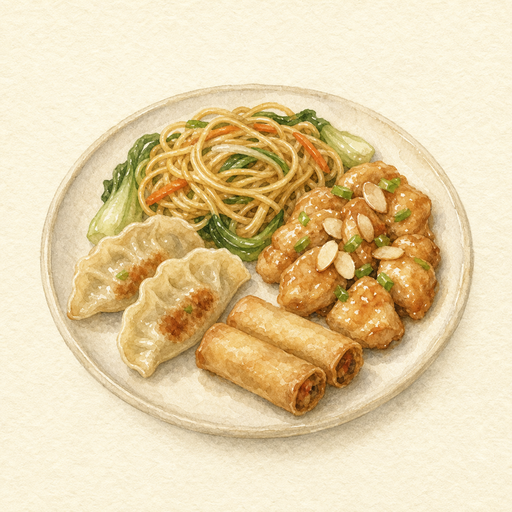
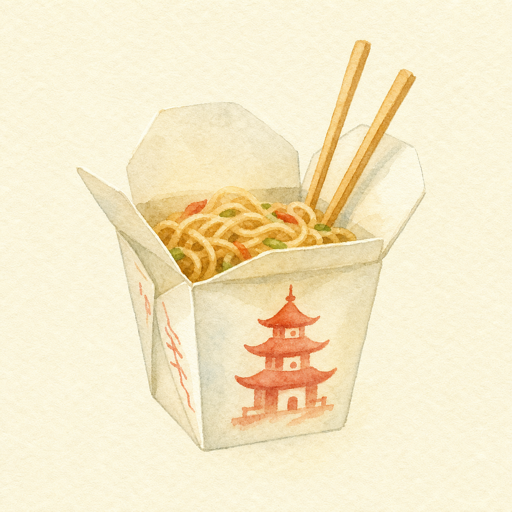
Expand recipe watercolor art

diff --git a/app/js/render.js b/app/js/render.js
@@ -135,21 +135,38 @@ function recipeDisplayTitle(id, opts){
 }
 
 const DEFAULT_RECIPE_IMAGE_ASSET = 'assets/recipes/default-recipe.png';
-const RECIPE_IMAGE_KEYS = ['default-recipe', 'salad', 'cooked-vegetables', 'meat-main', 'fish-main', 'breakfast-bowl', 'dessert-sweets', 'ramen', 'butter-chicken', 'chinese-dinner', 'fast-food-menu'];
+const RECIPE_IMAGE_KEYS = [
+  'default-recipe', 'breakfast-bowl', 'salad', 'soup', 'pasta',
+  'cooked-vegetables', 'meat-main', 'fish-main', 'dessert-sweets', 'ice-cream',
+  'ramen', 'butter-chicken', 'chinese-dinner', 'fast-food-menu', 'onigiri',
+  'french-toast', 'pancakes', 'boiled-chicken-broth', 'burrito',
+  'citrus-roast-turkey', 'club-sandwich', 'shakshuka'
+];
 
 function recipeImageLabel(key){
   const labels = {
     'default-recipe': 'Default',
+    'breakfast-bowl': 'Breakfast bowl',
     'salad': 'Salad',
+    'soup': 'Soup',
+    'pasta': 'Pasta',
     'cooked-vegetables': 'Cooked veg',
     'meat-main': 'Meat main',
     'fish-main': 'Fish main',
-    'breakfast-bowl': 'Breakfast bowl',
     'dessert-sweets': 'Dessert',
+    'ice-cream': 'Ice cream',
     'ramen': 'Ramen',
     'butter-chicken': 'Butter chicken',
     'chinese-dinner': 'Chinese dinner',
-    'fast-food-menu': 'Fast food'
+    'fast-food-menu': 'Fast food',
+    'onigiri': 'Onigiri',
+    'french-toast': 'French toast',
+    'pancakes': 'Pancakes',
+    'boiled-chicken-broth': 'Chicken broth',
+    'burrito': 'Burrito',
+    'citrus-roast-turkey': 'Citrus turkey',
+    'club-sandwich': 'Club sandwich',
+    'shakshuka': 'Shakshuka'
   };
   return labels[key] || String(key || '').replace(/-/g, ' ');
 }
@@ -183,7 +200,6 @@ function recipeHasFishIngredient(recipe){
 
 function inferredRecipeImageKey(recipe, recipeId){
   if(!recipe) return 'default-recipe';
-  if(recipeHasFishIngredient(recipe)) return 'fish-main';
   const title = String(recipe.title || '').toLowerCase();
   const emoji = String(recipe.emoji || '');
   const tags = Array.isArray(recipe.tags) ? recipe.tags : [];
@@ -198,13 +214,24 @@ function inferredRecipeImageKey(recipe, recipeId){
   if(/butter chicken|curry/.test(haystack)) return 'butter-chicken';
   if(/chinese|spring roll|dumpling|ravioli|almond chicken/.test(haystack)) return 'chinese-dinner';
   if(/mcdonald|burger king|fast food|burger|fries|cola/.test(haystack)) return 'fast-food-menu';
-  if(/brownie|dessert|sweet|sweets|gelato|ice cream|chocolate/.test(haystack)) return 'dessert-sweets';
+  if(/onigiri|rice ball/.test(haystack)) return 'onigiri';
+  if(/french toast/.test(haystack)) return 'french-toast';
+  if(/pancake/.test(haystack)) return 'pancakes';
+  if(/boiled chicken|chicken in broth|pollo bollito/.test(haystack)) return 'boiled-chicken-broth';
+  if(/burrito/.test(haystack)) return 'burrito';
+  if(/citrus roast turkey|orange.*turkey|turkey.*orange/.test(haystack)) return 'citrus-roast-turkey';
+  if(/club sandwich/.test(haystack)) return 'club-sandwich';
+  if(/shakshuka/.test(haystack)) return 'shakshuka';
+  if(/gelato|ice cream/.test(haystack)) return 'ice-cream';
+  if(/brownie|dessert|sweet|sweets|chocolate/.test(haystack)) return 'dessert-sweets';
+  if(/soup|zuppa|broth|minestrone|stew/.test(haystack)) return 'soup';
+  if(/pasta|spaghetti|lasagna|tagliatelle|penne|fusilli/.test(haystack)) return 'pasta';
+  if(/salad|insalata|cous cous/.test(haystack) || emoji === '🥗') return 'salad';
+  if(recipeHasFishIngredient(recipe) || /salmon|salmone|cod|tuna|tonno|sole|sogliola|fish|prawn|shrimp|clam|mussel/.test(haystack)) return 'fish-main';
   if(recipe.slot === 'breakfast') return 'breakfast-bowl';
   if(recipe.slot === 'lunch') return 'salad';
   if(recipe.slot === 'dinner') return 'default-recipe';
   if(/breakfast|yogurt|skyr|oats|cereali|chia|pudding|bowl/.test(haystack)) return 'breakfast-bowl';
-  if(/salad|insalata|cous cous/.test(haystack) || emoji === '🥗') return 'salad';
-  if(/salmon|salmone|cod|tuna|tonno|sole|sogliola|fish|prawn|shrimp|clam|mussel/.test(haystack)) return 'fish-main';
   if(/chicken|pollo|turkey|tacchino|beef|manzo|pork|maiale|bacon|prosciutto|speck|sausage|meat|burger/.test(haystack)) return 'meat-main';
   if(recipe.role === 'side' || tags.indexOf('veggie') !== -1 || /verdure|vegetable|veg|broccoli|cavolfiore|asparagi|pak choy|scarola|carrots|carote/.test(haystack)) return 'cooked-vegetables';
   return 'default-recipe';
@@ -265,6 +292,31 @@ function renderRecipe(key){
    .recipe-opt-chip in mesa.css); nothing renders for a recipe without optionGroups. */
 let recipeOptsCtx = null;
 
+// task D3: pure HTML-string builder, split out of renderRecipeOptionsChips() below in the
+// same buildXxx()/renderXxx() pattern js/library.js's builder sheets already use, so it's
+// testable headlessly (tools/check.js's hostile-label coverage — group/choice labels are
+// now USER-CONTROLLED text via the recipe builder's Options section, not just D1's
+// app-authored built-in copy). `resolvedOpts` must already be normalizeRecipeOpts() output
+// (every group has an entry) — callers normalize first, same contract this logic upheld
+// inline before the split. Choice ids/group keys still ride data-* attributes with a
+// delegated handler (attachRecipeOptionsHandler) rather than inline onclick — group keys/
+// choice ids are user-derived slugs now, never safe to interpolate into a JS-string
+// context — and labels go through escapeHtml (text-node context) / htmlAttr (attribute
+// context) like every other dynamic string in this file.
+function buildRecipeOptionsChipsHtml(recipe, resolvedOpts){
+  if(!recipe || !Array.isArray(recipe.optionGroups) || !recipe.optionGroups.length) return '';
+  return recipe.optionGroups.map(function(group){
+    const chips = (group.choices || []).map(function(choice){
+      const on = resolvedOpts[group.key] === choice.id;
+      return '<button type="button" class="pill ghost chip-preset recipe-opt-chip' + (on ? ' chipsel' : '') + '"'
+        + ' data-opt-group="' + htmlAttr(group.key) + '" data-opt-choice="' + htmlAttr(choice.id) + '">'
+        + escapeHtml(choice.label) + '</button>';
+    }).join('');
+    return '<div class="row" style="gap:6px;flex-wrap:wrap;margin-top:8px;align-items:center">'
+      + '<span class="sub" style="margin:0 2px 0 0">' + escapeHtml(group.label) + '</span>' + chips + '</div>';
+  }).join('');
+}
+
 function renderRecipeOptionsChips(){
   const wrap = document.getElementById('recipeOptionsWrap');
   if(!wrap) return;
@@ -276,19 +328,7 @@ function renderRecipeOptionsChips(){
   }
   recipeOptsCtx = normalizeRecipeOpts(r, recipeOptsCtx);
   wrap.style.display = 'block';
-  // Choice ids are app-authored constants (built-in RECIPES_DB only, per D1's scope cut),
-  // but still ride data-* attributes with a delegated handler rather than inline onclick —
-  // same escaping discipline the rest of the app applies to every dynamic row.
-  wrap.innerHTML = r.optionGroups.map(function(group){
-    const chips = (group.choices || []).map(function(choice){
-      const on = recipeOptsCtx[group.key] === choice.id;
-      return '<button type="button" class="pill ghost chip-preset recipe-opt-chip' + (on ? ' chipsel' : '') + '"'
-        + ' data-opt-group="' + htmlAttr(group.key) + '" data-opt-choice="' + htmlAttr(choice.id) + '">'
-        + escapeHtml(choice.label) + '</button>';
-    }).join('');
-    return '<div class="row" style="gap:6px;flex-wrap:wrap;margin-top:8px;align-items:center">'
-      + '<span class="sub" style="margin:0 2px 0 0">' + escapeHtml(group.label) + '</span>' + chips + '</div>';
-  }).join('');
+  wrap.innerHTML = buildRecipeOptionsChipsHtml(r, recipeOptsCtx);
   attachRecipeOptionsHandler();
 }
 

diff --git a/app/data/recipes.js b/app/data/recipes.js
@@ -133,6 +133,7 @@ const RECIPES_DB = {
   },
   shakshuka: {
     title: 'Shakshuka', emoji: '🍳', slot: 'breakfast', role: 'main',
+    imageKey: 'shakshuka',
     styles: ['balanced', 'lowcarb'], time: 20,
     ingredients: [['eggs', 150], ['tomatoes', 150], ['bell-pepper', 80], ['red-onion', 40], ['olive-oil', 10]],
     toTaste: ['garlic', 'paprika', 'herbs'],
@@ -357,6 +358,7 @@ const RECIPES_DB = {
 
   'french-toast-fruit-maple': {
     title: 'French toast with fruit & maple syrup', emoji: '🍞', slot: 'breakfast', role: 'full',
+    imageKey: 'french-toast',
     styles: ['balanced'], time: 15,
     // task D2: mixed-berries moved out of the base list into optionGroups.fruit's default
     // choice (choices[0] = 'berries') so the base stays common to every fruit choice; the
@@ -391,6 +393,7 @@ const RECIPES_DB = {
   },
   pancakes: {
     title: 'Pancakes', emoji: '🥞', slot: 'breakfast', role: 'full',
+    imageKey: 'pancakes',
     styles: ['balanced'], time: 18,
     ingredients: [['oats', 45], ['eggs', 50], ['milk', 100], ['bananas', 60], ['maple-syrup', 15], ['olive-oil', 4]],
     toTaste: ['cinnamon'],
@@ -400,6 +403,7 @@ const RECIPES_DB = {
   },
   'pancakes-proteici': {
     title: 'Protein pancakes', emoji: '🥞', slot: 'breakfast', role: 'full',
+    imageKey: 'pancakes',
     styles: ['balanced', 'highprotein'], time: 18,
     ingredients: [['oats', 40], ['whey-protein-powder', 30], ['eggs', 50], ['milk', 90], ['chocolate-hazelnut-spread', 12], ['bananas', 70], ['mixed-berries', 50], ['olive-oil', 3]],
     toTaste: ['cinnamon'],
@@ -486,19 +490,9 @@ const RECIPES_DB = {
     tags: ['quick', 'muscle'],
     avoid: ['gluten', 'lactose']
   },
-  'pasta-pomodorini-funghi-broccoli': {
-    title: 'Cherry tomato, mushroom & broccoli pasta', emoji: '🍝', slot: 'lunch', role: 'full',
-    season: 'spring/summer',
-    slots: ['lunch', 'dinner'],
-    styles: ['balanced'], time: 22,
-    ingredients: [['pasta', 75], ['cherry-tomatoes', 120], ['mushrooms', 90], ['broccoli', 120], ['parmesan', 12], ['olive-oil', 10]],
-    toTaste: ['garlic', 'black pepper'],
-    steps: ['Boil pasta and broccoli together in salted water.', 'Saute mushrooms and cherry tomatoes with oil and garlic.', 'Toss pasta with the vegetables and parmesan.'],
-    tags: ['veggie', 'highFiber'],
-    avoid: ['gluten', 'lactose']
-  },
   'club-sandwich': {
     title: 'Club sandwich', emoji: '🥪', slot: 'lunch', role: 'full',
+    imageKey: 'club-sandwich',
     styles: ['balanced', 'highprotein'], time: 15,
     ingredients: [['white-bread', 90], ['chicken-breast', 100], ['bacon', 25], ['lettuce', 30], ['cherry-tomatoes', 50]],
     toTaste: ['mustard'],
@@ -563,6 +557,7 @@ const RECIPES_DB = {
 
   'pollo-bollito-brodo': {
     title: 'Boiled chicken in broth', emoji: '🍗', slot: 'dinner', role: 'main',
+    imageKey: 'boiled-chicken-broth',
     styles: ['highprotein', 'lowcarb'], time: 45,
     ingredients: [['chicken-breast', 190], ['carrots', 120], ['escarole', 100], ['olive-oil', 8]],
     toTaste: ['celery', 'onion', 'parsley'],
@@ -619,6 +614,7 @@ const RECIPES_DB = {
   },
   'tacchino-arrosto-agrumi': {
     title: 'Citrus roast turkey', emoji: '🦃', slot: 'dinner', role: 'full',
+    imageKey: 'citrus-roast-turkey',
     season: 'winter/autumn',
     styles: ['balanced', 'highprotein'], time: 35,
     ingredients: [['turkey-breast', 190], ['oranges', 80], ['sweet-potato', 180], ['green-beans', 140], ['olive-oil', 10]],
@@ -657,6 +653,7 @@ const RECIPES_DB = {
   },
   'pasta-zucca-fagioli-funghi': {
     title: 'Pumpkin, bean & mushroom pasta', emoji: '🍝', slot: 'dinner', role: 'full',
+    imageKey: 'pasta',
     season: 'winter/autumn',
     slots: ['dinner', 'lunch'],
     styles: ['balanced'], time: 28,
@@ -689,6 +686,7 @@ const RECIPES_DB = {
   },
   'zuppa-broccolo-nero-lenticchie': {
     title: 'Black kale & lentil soup', emoji: '🍲', slot: 'dinner', role: 'full',
+    imageKey: 'soup',
     season: 'winter/autumn',
     slots: ['dinner', 'lunch'],
     styles: ['balanced'], time: 30,
@@ -709,6 +707,7 @@ const RECIPES_DB = {
   },
   'burrito-vegetariano': {
     title: 'Vegetarian burrito', emoji: '🌯', slot: 'dinner', role: 'full',
+    imageKey: 'burrito',
     styles: ['balanced'], time: 22,
     ingredients: [['white-bread', 80], ['cannellini-beans', 130], ['rice', 55], ['avocado', 60], ['cherry-tomatoes', 80], ['feta-cheese', 25]],
     toTaste: ['lime', 'cumin'],
@@ -878,6 +877,7 @@ const RECIPES_DB = {
 
   'baked-fish': {
     title: 'Baked fish', emoji: '🐟', slot: 'lunch', role: 'main',
+    imageKey: 'fish-main',
     slots: ['lunch', 'dinner'],
     styles: ['balanced', 'highprotein', 'lowcarb'], time: 20,
     ingredients: [['olive-oil', 10], ['lemon-juice', 20]],
@@ -899,6 +899,7 @@ const RECIPES_DB = {
   },
   pasta: {
     title: 'Pasta', emoji: '🍝', slot: 'lunch', role: 'full',
+    imageKey: 'pasta',
     slots: ['lunch', 'dinner'],
     styles: ['balanced'], time: 20,
     ingredients: [['pasta', 100], ['olive-oil', 8]],
@@ -1039,7 +1040,7 @@ const RECIPES_DB = {
   },
   'gelato-cioccolato': {
     title: 'Chocolate ice cream', emoji: '🍨', slot: 'snack', role: 'full',
-    imageKey: 'dessert-sweets',
+    imageKey: 'ice-cream',
     occasional: true,
     styles: ['balanced'], time: 1,
     ingredients: [['milk', 90], ['greek-yogurt', 50], ['honey', 18], ['dark-chocolate-85', 24]],
@@ -1050,7 +1051,7 @@ const RECIPES_DB = {
   },
   'gelato-stracciatella': {
     title: 'Stracciatella ice cream', emoji: '🍨', slot: 'snack', role: 'full',
-    imageKey: 'dessert-sweets',
+    imageKey: 'ice-cream',
     occasional: true,
     styles: ['balanced'], time: 1,
     ingredients: [['milk', 110], ['greek-yogurt', 40], ['honey', 18], ['dark-chocolate-85', 12], ['vanilla', 2]],
@@ -1061,7 +1062,7 @@ const RECIPES_DB = {
   },
   'gelato-yogurt': {
     title: 'Yogurt ice cream', emoji: '🍦', slot: 'snack', role: 'full',
-    imageKey: 'dessert-sweets',
+    imageKey: 'ice-cream',
     occasional: true,
     styles: ['balanced'], time: 2,
     ingredients: [['greek-yogurt', 120], ['milk', 40], ['honey', 18], ['strawberries', 30]],
@@ -1072,7 +1073,7 @@ const RECIPES_DB = {
   },
   'gelato-crema': {
     title: 'Vanilla custard ice cream', emoji: '🍨', slot: 'snack', role: 'full',
-    imageKey: 'dessert-sweets',
+    imageKey: 'ice-cream',
     occasional: true,
     styles: ['balanced'], time: 1,
     ingredients: [['milk', 120], ['eggs', 25], ['honey', 18], ['vanilla', 2], ['cinnamon', 1]],

diff --git a/tools/check.js b/tools/check.js
@@ -651,12 +651,14 @@ function testRecipeDisplayHelpers(ctx){
 }
 
 function testRecipeImageHelpers(ctx){
-  assert(JSON.stringify(call(ctx, 'availableRecipeImageKeys', [])) === JSON.stringify(['default-recipe', 'salad', 'cooked-vegetables', 'meat-main', 'fish-main', 'breakfast-bowl', 'dessert-sweets', 'ramen', 'butter-chicken', 'chinese-dinner', 'fast-food-menu']),
+  assert(JSON.stringify(call(ctx, 'availableRecipeImageKeys', [])) === JSON.stringify(['default-recipe', 'breakfast-bowl', 'salad', 'soup', 'pasta', 'cooked-vegetables', 'meat-main', 'fish-main', 'dessert-sweets', 'ice-cream', 'ramen', 'butter-chicken', 'chinese-dinner', 'fast-food-menu', 'onigiri', 'french-toast', 'pancakes', 'boiled-chicken-broth', 'burrito', 'citrus-roast-turkey', 'club-sandwich', 'shakshuka']),
     'availableRecipeImageKeys: returns the curated recipe image set', JSON.stringify(call(ctx, 'availableRecipeImageKeys', [])));
   assert(call(ctx, 'safeRecipeImageKey', ['fish-main']) === 'fish-main',
     'safeRecipeImageKey: accepts an available recipe image key', '');
   assert(call(ctx, 'safeRecipeImageKey', ['dessert-sweets']) === 'dessert-sweets',
     'safeRecipeImageKey: accepts the sweets recipe image key', '');
+  assert(call(ctx, 'safeRecipeImageKey', ['ice-cream']) === 'ice-cream',
+    'safeRecipeImageKey: accepts the ice cream recipe image key', '');
   assert(call(ctx, 'safeRecipeImageKey', ['salmon-greens']) === '',
     'safeRecipeImageKey: rejects unavailable recipe image keys even if kebab-case', '');
   assert(call(ctx, 'safeRecipeImageKey', ['../salmon']) === '',
@@ -677,12 +679,24 @@ function testRecipeImageHelpers(ctx){
     'recipeImageAssetForRecipe: infers the breakfast-bowl image for breakfast recipes', '');
   assert(call(ctx, 'recipeImageAssetForRecipe', [{title: 'Big salad', emoji: '🥗', slot: 'lunch', tags: [], ingredients: []}]) === 'assets/recipes/salad.png',
     'recipeImageAssetForRecipe: uses the salad image for lunch recipes', '');
-  assert(call(ctx, 'recipeImageAssetForRecipe', [{title: 'Tuna lunch', emoji: '🥗', slot: 'lunch', tags: [], ingredients: [['tuna-in-olive-oil', 100]]}]) === 'assets/recipes/fish-main.png',
-    'recipeImageAssetForRecipe: fish ingredients override the lunch salad default', '');
+  assert(call(ctx, 'recipeImageAssetForRecipe', [{title: 'Tuna salad', emoji: '🥗', slot: 'lunch', tags: [], ingredients: [['tuna-in-olive-oil', 100]]}]) === 'assets/recipes/salad.png',
+    'recipeImageAssetForRecipe: salad presentation wins over fish ingredients for tuna salad', '');
   assert(call(ctx, 'recipeImageAssetForRecipe', [{title: 'Baked cod', emoji: '🐟', slot: 'dinner', tags: [], ingredients: [['cod', 120]]}]) === 'assets/recipes/fish-main.png',
     'recipeImageAssetForRecipe: fish ingredients use the fish-main image even for dinner recipes', '');
+  assert(call(ctx, 'recipeImageAssetForRecipe', [{title: 'Black kale soup', emoji: '🍲', slot: 'dinner', tags: [], ingredients: [['cooked-lentils', 100]]}]) === 'assets/recipes/soup.png',
+    'recipeImageAssetForRecipe: soups use the soup image', '');
+  assert(call(ctx, 'recipeImageAssetForRecipe', [{title: 'Pasta with tomato', emoji: '🍝', slot: 'dinner', tags: [], ingredients: [['pasta', 90]]}]) === 'assets/recipes/pasta.png',
+    'recipeImageAssetForRecipe: pasta dishes use the pasta image', '');
   assert(call(ctx, 'recipeImageAssetForRecipe', [{title: 'Ramen', emoji: '🍜', slot: 'dinner', tags: [], ingredients: [['ramen-noodles', 70], ['eggs', 50]]}]) === 'assets/recipes/ramen.png',
     'recipeImageAssetForRecipe: ramen recipes use the specific ramen image', '');
+  assert(call(ctx, 'recipeImageAssetForRecipe', [{title: 'Onigiri', emoji: '🍙', slot: 'lunch', tags: [], ingredients: [['rice', 100]]}]) === 'assets/recipes/onigiri.png',
+    'recipeImageAssetForRecipe: onigiri recipes use the specific onigiri image', '');
+  assert(call(ctx, 'recipeImageAssetForRecipe', [{title: 'French toast with fruit', emoji: '🍞', slot: 'breakfast', tags: [], ingredients: [['white-bread', 70]]}]) === 'assets/recipes/french-toast.png',
+    'recipeImageAssetForRecipe: French toast recipes use the specific French toast image', '');
+  assert(call(ctx, 'recipeImageAssetForRecipe', [{title: 'Pancakes', emoji: '🥞', slot: 'breakfast', tags: [], ingredients: [['oats', 45]]}]) === 'assets/recipes/pancakes.png',
+    'recipeImageAssetForRecipe: pancakes use the pancakes image', '');
+  assert(call(ctx, 'recipeImageAssetForRecipe', [{title: 'Ice cream', emoji: '🍨', slot: 'snack', tags: [], ingredients: [['milk', 90]]}]) === 'assets/recipes/ice-cream.png',
+    'recipeImageAssetForRecipe: ice cream uses the ice cream image', '');
   assert(call(ctx, 'recipeImageAssetForRecipe', [{title: 'Brownie', emoji: '🍫', slot: 'snack', tags: [], ingredients: [['brownie', 80]]}]) === 'assets/recipes/dessert-sweets.png',
     'recipeImageAssetForRecipe: sweets use the dessert image', '');
   assert(call(ctx, 'recipeImageAssetForRecipe', [{title: 'Burger and fries', emoji: '🍔', slot: 'dinner', tags: [], ingredients: [['fast-food-beef-burger', 180], ['cola', 400]]}]) === 'assets/recipes/fast-food-menu.png',
@@ -717,10 +731,16 @@ function testRecipeCatalogCleanup(ctx){
     'recipe catalog cleanup: default wishlist breakfast title is English', RECIPES_DB['yogurt-cereali-frutta'].title);
   assert(RECIPES_DB['cena-cinese'].title === 'Chinese-style dinner' && RECIPES_DB['cena-cinese'].imageKey === 'chinese-dinner',
     'recipe catalog cleanup: Chinese dinner title/imageKey are explicit', JSON.stringify(RECIPES_DB['cena-cinese']));
+  assert(!RECIPES_DB['pasta-pomodorini-funghi-broccoli'],
+    'recipe catalog cleanup: removes cherry tomato, mushroom & broccoli pasta', '');
+  assert(RECIPES_DB['baked-fish'].imageKey === 'fish-main',
+    'recipe catalog cleanup: baked fish uses the fish image explicitly', JSON.stringify(RECIPES_DB['baked-fish']));
+  assert(RECIPES_DB.tunasalad && call(ctx, 'recipeImageAssetForRecipe', [RECIPES_DB.tunasalad, 'tunasalad']) === 'assets/recipes/salad.png',
+    'recipe catalog cleanup: tuna salad uses salad art in Auto', JSON.stringify(RECIPES_DB.tunasalad));
   assert(RECIPES_DB.ramen.imageKey === 'ramen' && RECIPES_DB['butter-chicken'].imageKey === 'butter-chicken',
     'recipe catalog cleanup: specific requested recipes carry specific image keys', JSON.stringify({ramen: RECIPES_DB.ramen.imageKey, butterChicken: RECIPES_DB['butter-chicken'].imageKey}));
-  assert(RECIPES_DB['brownie-dessert'].imageKey === 'dessert-sweets',
-    'recipe catalog cleanup: brownie uses the sweets image key', JSON.stringify(RECIPES_DB['brownie-dessert']));
+  assert(RECIPES_DB['brownie-dessert'].imageKey === 'dessert-sweets' && RECIPES_DB['gelato-cioccolato'].imageKey === 'ice-cream',
+    'recipe catalog cleanup: brownie stays sweets while ice cream uses ice cream art', JSON.stringify({brownie: RECIPES_DB['brownie-dessert'], gelato: RECIPES_DB['gelato-cioccolato']}));
 }
 
 function testRecipeImagePicker(ctx){

diff --git a/app/sw.js b/app/sw.js
@@ -6,7 +6,7 @@
    =================================================================== */
 
 /* GENERATED by tools/build-sw.js — do not edit by hand (run: node tools/build-sw.js) */
-const CACHE = 'mesa-0ea8b0388971';
+const CACHE = 'mesa-80d62a7c94d3';
 /* END GENERATED */
 
 // The full app shell — everything needed to boot and run with zero network.
@@ -154,17 +154,28 @@ const SHELL_FILES = [
   'assets/ingredients/white-bread.png',
   'assets/ingredients/wholewheat-bread.png',
   'assets/ingredients/wild-strawberries.png',
+  'assets/recipes/boiled-chicken-broth.png',
   'assets/recipes/breakfast-bowl.png',
+  'assets/recipes/burrito.png',
   'assets/recipes/butter-chicken.png',
   'assets/recipes/chinese-dinner.png',
+  'assets/recipes/citrus-roast-turkey.png',
+  'assets/recipes/club-sandwich.png',
   'assets/recipes/cooked-vegetables.png',
   'assets/recipes/default-recipe.png',
   'assets/recipes/dessert-sweets.png',
   'assets/recipes/fast-food-menu.png',
   'assets/recipes/fish-main.png',
+  'assets/recipes/french-toast.png',
+  'assets/recipes/ice-cream.png',
   'assets/recipes/meat-main.png',
+  'assets/recipes/onigiri.png',
+  'assets/recipes/pancakes.png',
+  'assets/recipes/pasta.png',
   'assets/recipes/ramen.png',
   'assets/recipes/salad.png',
+  'assets/recipes/shakshuka.png',
+  'assets/recipes/soup.png',
   'icons/icon-180.png',
   'icons/icon-192.png',
   'icons/icon-512-maskable.png',

diff --git a/README.md b/README.md
@@ -25,7 +25,7 @@ A free, installable, offline-first PWA that plans a week of Mediterranean meals 
 - **Barcode/Open Food Facts in Italy:** prefer the localized Italian OFF endpoint before global endpoints; some products visible on the website return richer nutriments from `it.openfoodfacts.org`.
 - **Icons: do not repeat the weak generated-icon batch.** Codex produced a poor first pass for ingredient watercolor icons; another agent later fixed/replaced them. Future icon work should preserve the repaired assets, inspect contact sheets visually, and use the `watercolor-ingredient-icons` skill only with actual visual QA before wiring/deploying.
 - **Detail hero layout on mobile:** keep the ingredient/recipe detail image slot on the left and tags/meta on the right, even under the narrow mobile media query. Do not stack image-over-tags unless Elena explicitly asks for that layout; it wastes vertical space and made the screenshot look unchanged.
-- **Recipe images are separate from ingredient icons.** Shared recipe art lives under `app/assets/recipes/*.png`; `tools/build-sw.js` must include that directory, and `app/sw.js` must be regenerated before deploy. `render.js` owns safe recipe image helpers (`safeRecipeImageKey`, `safeRecipeImageAsset`, `recipeImageAssetForRecipe`, `recipeHeroHtml`) with default fallback to `assets/recipes/default-recipe.png`. Auto mode derives fish art from fish/shellfish ingredients before meal-slot defaults (`breakfast` bowl, `lunch` salad, `dinner` default), so avoid duplicating that as manual recipe tags unless the app later needs a visible recipe-type filter. Recipe detail must expose a clear `Change image` action; it opens the recipe editor with the Lead image picker expanded.
+- **Recipe images are separate from ingredient icons.** Shared recipe art lives under `app/assets/recipes/*.png`; `tools/build-sw.js` must include that directory, and `app/sw.js` must be regenerated before deploy. `render.js` owns safe recipe image helpers (`safeRecipeImageKey`, `safeRecipeImageAsset`, `recipeImageAssetForRecipe`, `recipeHeroHtml`) with default fallback to `assets/recipes/default-recipe.png`. Auto mode checks specific recipe art first, then soup/pasta/salad presentation, then fish/shellfish ingredients, then meal-slot defaults (`breakfast` bowl, `lunch` salad, `dinner` default), so tuna salad stays salad while non-salad fish dishes stay fish. Recipe detail must expose a clear `Change image` action; it opens the recipe editor with the Lead image picker expanded.
 - **Library recipe rows should open detail.** The recipe Library row body opens `openRecipe(id, 'libraryRecipes')`; only the small action buttons should favorite/thumbs-down/edit/delete. If a screenshot shows "Edit recipe" after tapping a row, the row tap handler regressed.
 
 ## Deploy (both, in this order)
@@ -112,9 +112,11 @@ A free, installable, offline-first PWA that plans a week of Mediterranean meals 
 
 **Done 2026-07-19 (2)** (sw CACHE mesa-0ea8b0388971): **Recipe lead-image affordance** — recipe detail now has a visible `Change image` action inside the hero, which opens the recipe editor with the Lead image picker already expanded. The recipe editor label is now `Lead image`, with a larger preview and explicit `Choose lead image` action so it matches the ingredient icon picker mentally. Harness now **533 tests**, including the detail-to-picker and normal-edit affordance regression guards.
 
+**Done 2026-07-19 (3)** (sw CACHE mesa-80d62a7c94d3): **Recipe image expansion** — replaced `chinese-dinner` art with a Chinese takeout container; added 11 new 512px watercolor recipe assets (`soup`, `pasta`, `onigiri`, `french-toast`, `pancakes`, `boiled-chicken-broth`, `burrito`, `citrus-roast-turkey`, `club-sandwich`, `ice-cream`, `shakshuka`). Deleted the built-in `pasta-pomodorini-funghi-broccoli` recipe. Recipe image Auto now prioritizes soup/pasta/salad presentation before fish ingredients, with `baked-fish` pinned to `fish-main` and tuna salads staying on `salad`. Harness now **543 tests**.
+
 **In progress / next:**
 - **Watercolor icons (T2/T4, "Elena generates, agent wires")**: for future non-produce gaps, continue replacing fallback ingredients by adding PNGs under `app/assets/ingredients/<iconKey>.png`, setting `iconKey` on the relevant `FOODS` records, bumping `app/sw.js`, and seeding/readback-checking D1; no hardcoded icon maps in `library.js`.
 - **Recipe variety gaps for better planning**: add more soups/minestrone, warm grain/legume bowls, fish variety (sea bass, mackerel, tuna steak, seafood pasta), vegetarian complete-protein mains (dal, bean chili, tofu curry/tagine), simple pasta/rice staples (tomato-tuna pasta, risotto, rice and peas), sheet-pan meals, wraps/piadine beyond chicken, and real-life options like pizza night, sushi/poke, and aperitivo-style meals.
-- **Next generic recipe images**: highest leverage after this batch would be pasta, soup/stew, sandwich/wrap, rice/grain bowl, egg main, vegetarian main, and a less-specific curry image if butter chicken starts feeling too narrow.
+- **Next generic recipe images**: highest leverage after this batch would be rice/grain bowl, egg main, vegetarian main, sheet-pan dinner, sushi/poke, and a less-specific curry image if butter chicken starts feeling too narrow.
 - Awaiting Elena: confirm Access login + couple sync on the real phones at https://mesa-9y5.pages.dev/app/ → then make GitHub repo private + retire legacy URL in docs.
 - Next Phase 2 item: LLM endpoint (needs an Anthropic API key from Elena, proxied by a Worker — key never ships in the app).